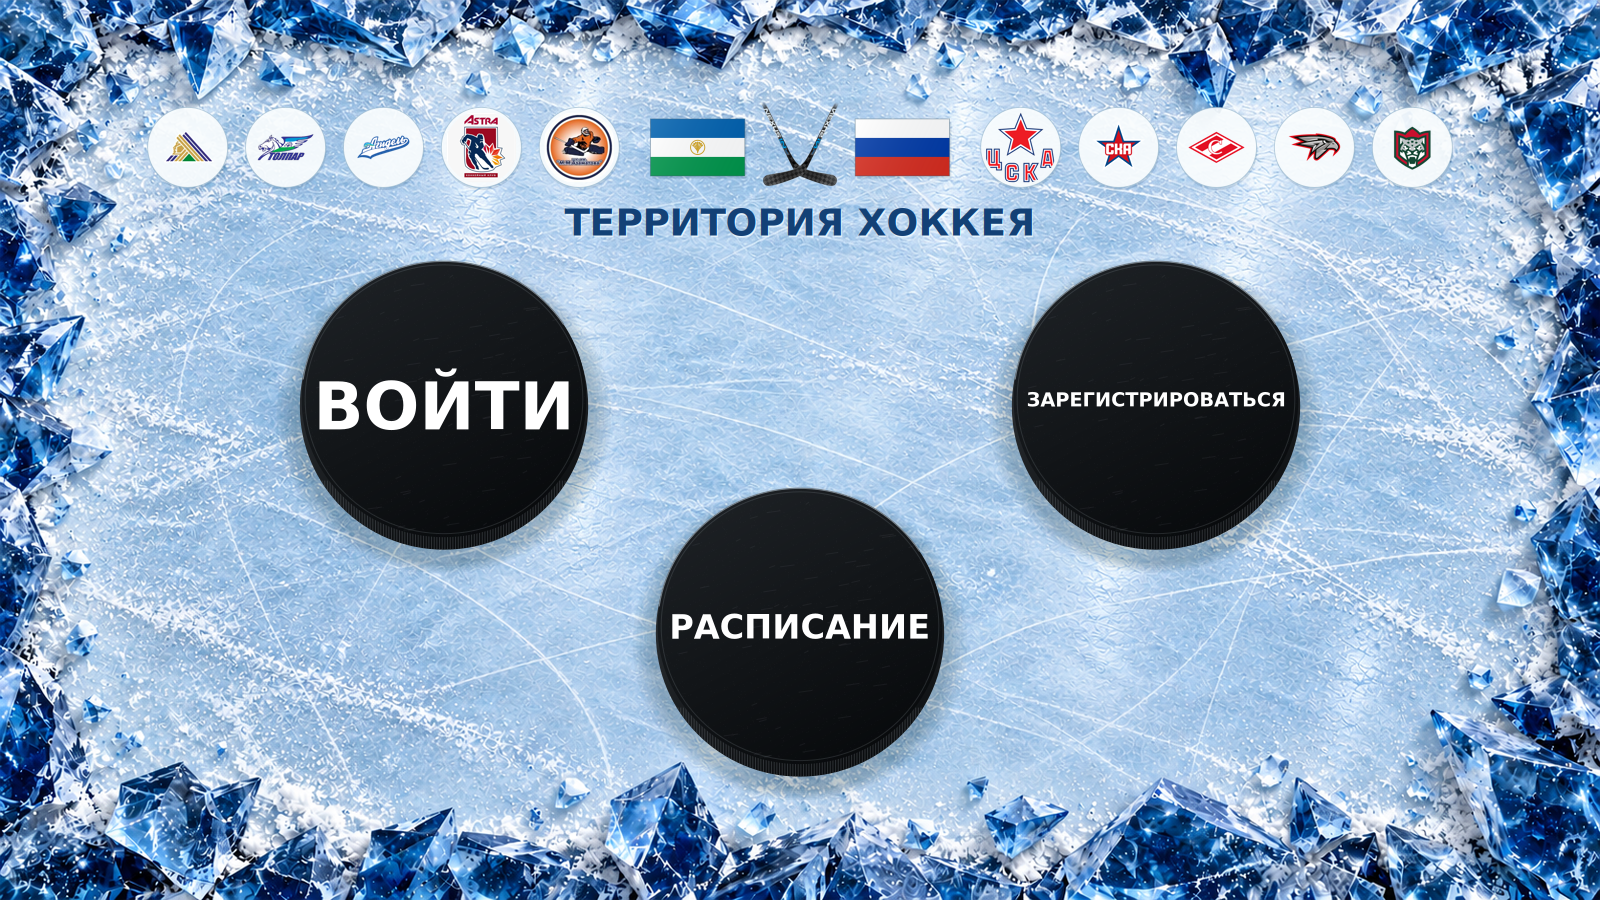
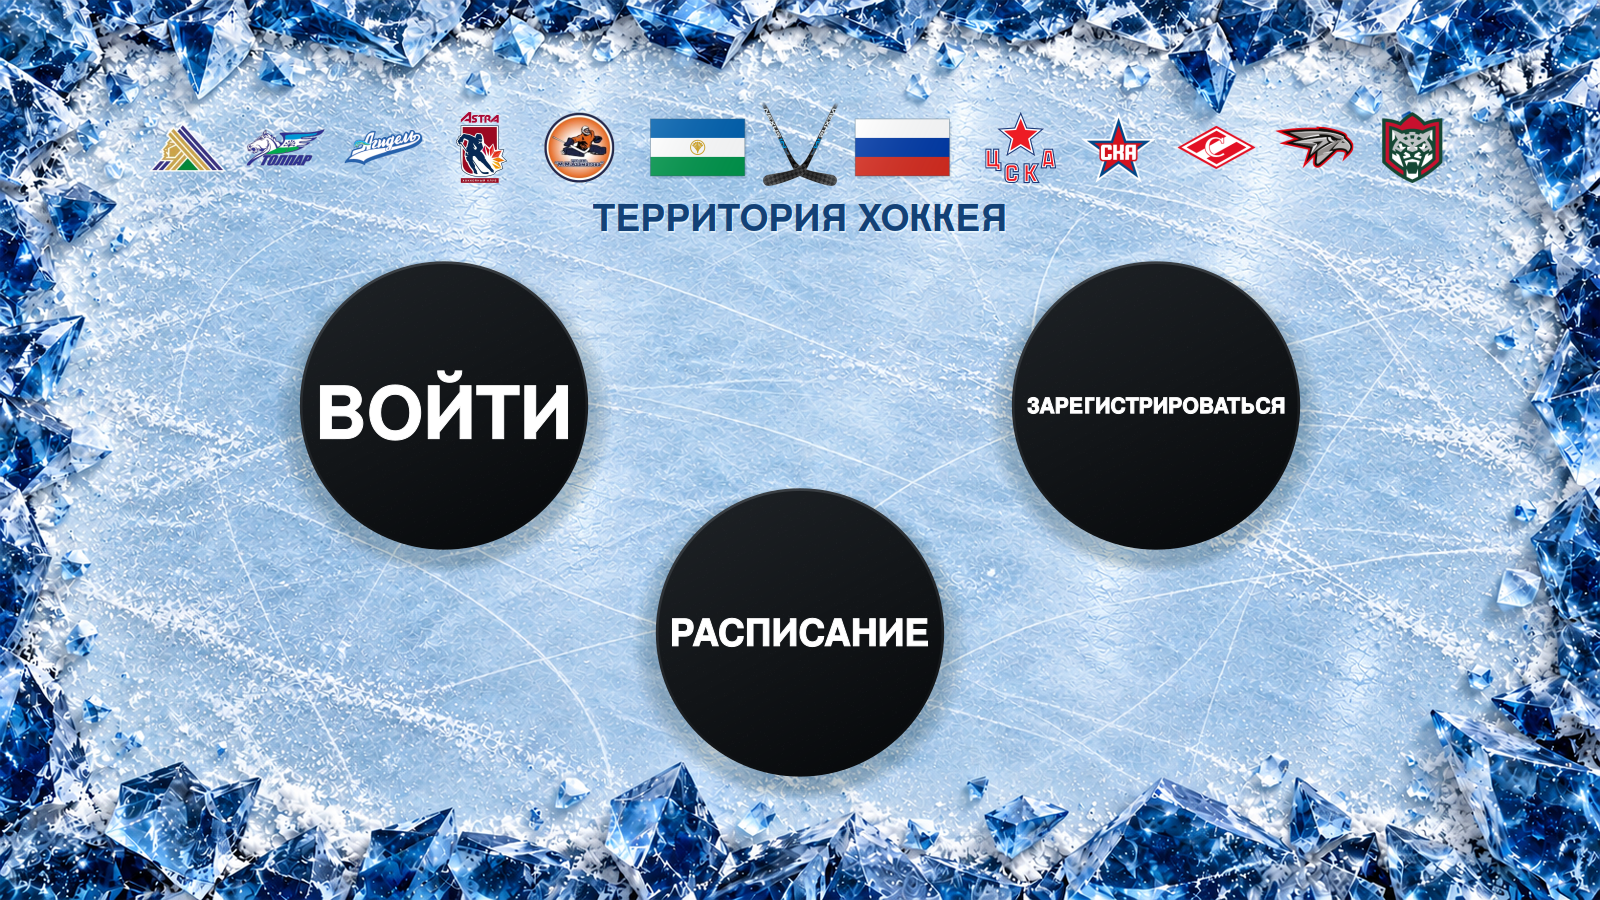
Fix emblem DPI and transparency, round pucks and strengthen menu typography

diff --git a/COURSE_3/EP_TPaD_DB/App_C#/App/ArtworkResources.cs b/COURSE_3/EP_TPaD_DB/App_C#/App/ArtworkResources.cs
@@ -1,4 +1,6 @@
+using System.Drawing.Drawing2D;
 using System.Drawing.Imaging;
+using System.Runtime.InteropServices;
 
 namespace LP_PopovD_App
 {
@@ -14,11 +16,110 @@ namespace LP_PopovD_App
                 .GetManifestResourceStream("LP_PopovD_App.Assets." + name + ".png")
                 ?? throw new FileNotFoundException("Изображение не включено в проект: " + name);
             using Image original = Image.FromStream(stream);
-            image = new Bitmap(original.Width, original.Height, PixelFormat.Format32bppPArgb);
-            using (Graphics g = Graphics.FromImage(image))
-                g.DrawImageUnscaled(original, 0, 0);
+            image = CopyPixels(original);
             images.Add(name, image);
             return image;
+        }
+
+        private static Bitmap CopyPixels(Image original)
+        {
+            Bitmap copy = new(original.Width, original.Height, PixelFormat.Format32bppArgb);
+            copy.SetResolution(96, 96);
+            using Graphics g = Graphics.FromImage(copy);
+            g.PageUnit = GraphicsUnit.Pixel;
+            g.CompositingMode = CompositingMode.SourceCopy;
+            // У исходников DPI от 25 до 600. Копируем именно пиксели, без физического масштаба.
+            g.DrawImage(original, new Rectangle(0, 0, copy.Width, copy.Height),
+                0, 0, original.Width, original.Height, GraphicsUnit.Pixel);
+            return copy;
+        }
+
+        internal static Bitmap GetEmblem(string name)
+        {
+            string key = name + ":emblem";
+            if (images.TryGetValue(key, out Bitmap? emblem))
+                return emblem;
+
+            using Bitmap cutout = CopyPixels(Get(name));
+            int width = cutout.Width, height = cutout.Height;
+            Rectangle full = new(0, 0, width, height);
+            BitmapData data = cutout.LockBits(full, ImageLockMode.ReadWrite, PixelFormat.Format32bppArgb);
+            Rectangle bounds;
+            try
+            {
+                int[] pixels = new int[width * height];
+                for (int y = 0; y < height; y++)
+                    Marshal.Copy(IntPtr.Add(data.Scan0, y * data.Stride), pixels, y * width, width);
+
+                // У этих двух источников непрозрачный фон. Белые детали внутри эмблем сохраняются.
+                if (name is "Astra" or "Azamatov")
+                    RemoveOuterBackground(pixels, width, height);
+
+                int left = width, top = height, right = -1, bottom = -1;
+                for (int y = 0; y < height; y++)
+                    for (int x = 0; x < width; x++)
+                        if ((uint)pixels[y * width + x] >> 24 > 8)
+                        {
+                            left = Math.Min(left, x);
+                            top = Math.Min(top, y);
+                            right = Math.Max(right, x);
+                            bottom = Math.Max(bottom, y);
+                        }
+                if (right < left)
+                    throw new InvalidDataException("Пустая эмблема: " + name);
+                bounds = Rectangle.FromLTRB(left, top, right + 1, bottom + 1);
+                for (int y = 0; y < height; y++)
+                    Marshal.Copy(pixels, y * width, IntPtr.Add(data.Scan0, y * data.Stride), width);
+            }
+            finally
+            {
+                cutout.UnlockBits(data);
+            }
+
+            emblem = cutout.Clone(bounds, PixelFormat.Format32bppPArgb);
+            emblem.SetResolution(96, 96);
+            images.Add(key, emblem);
+            return emblem;
+        }
+
+        private static void RemoveOuterBackground(int[] pixels, int width, int height)
+        {
+            bool[] visited = new bool[pixels.Length];
+            Queue<int> edge = new();
+            void Visit(int index)
+            {
+                if (visited[index])
+                    return;
+                visited[index] = true;
+                uint color = (uint)pixels[index];
+                int r = (int)(color >> 16 & 255), g = (int)(color >> 8 & 255), b = (int)(color & 255);
+                bool white = Math.Min(r, Math.Min(g, b)) >= 238 &&
+                    Math.Max(r, Math.Max(g, b)) - Math.Min(r, Math.Min(g, b)) <= 12;
+                if (color >> 24 <= 8 || white)
+                {
+                    pixels[index] = 0;
+                    edge.Enqueue(index);
+                }
+            }
+
+            for (int x = 0; x < width; x++)
+            {
+                Visit(x);
+                Visit((height - 1) * width + x);
+            }
+            for (int y = 0; y < height; y++)
+            {
+                Visit(y * width);
+                Visit(y * width + width - 1);
+            }
+            while (edge.TryDequeue(out int index))
+            {
+                int x = index % width, y = index / width;
+                if (x > 0) Visit(index - 1);
+                if (x + 1 < width) Visit(index + 1);
+                if (y > 0) Visit(index - width);
+                if (y + 1 < height) Visit(index + width);
+            }
         }
 
         internal static void Dispose()

diff --git a/COURSE_3/EP_TPaD_DB/App_C#/App/EntryDrawing.cs b/COURSE_3/EP_TPaD_DB/App_C#/App/EntryDrawing.cs
@@ -30,8 +30,8 @@ namespace LP_PopovD_App
 
         private static bool InsideFace(float x, float y)
         {
-            float dx = (x - 165) / 159;
-            float dy = (y - 158) / 154;
+            float dx = (x - 165) / 158;
+            float dy = (y - 165) / 158;
             return dx * dx + dy * dy < 1;
         }
 
@@ -42,22 +42,13 @@ namespace LP_PopovD_App
             g.TranslateTransform(bounds.X, bounds.Y);
             g.ScaleTransform(scale, scale);
             g.SmoothingMode = SmoothingMode.AntiAlias;
-            RectangleF body = new(3, 5, 324, 322);
+            RectangleF body = new(3, 3, 324, 324);
             using LinearGradientBrush rim = new(body, Color.FromArgb(64, 69, 74),
                 Color.FromArgb(3, 5, 7), 75f);
             g.FillEllipse(rim, body);
 
-            // Рифлёный резиновый торец под верхней рабочей поверхностью.
-            using Pen groove = new(Color.FromArgb(100, 97, 103, 109), 0.65f);
-            for (int x = 7; x < 325; x += 3)
-            {
-                float normalizedX = (x - 165f) / 162f;
-                float bottom = 166 + 161 * MathF.Sqrt(1 - normalizedX * normalizedX);
-                if (bottom > 250)
-                    g.DrawLine(groove, x, 250, x, bottom - 0.6f);
-            }
-
-            RectangleF face = new(5, 3, 320, 310);
+            // Вид сверху: концентрические окружности, без овального лица и смещённого торца.
+            RectangleF face = new(6, 6, 318, 318);
             using LinearGradientBrush rubber = new(face,
                 highlighted ? Color.FromArgb(44, 48, 53) : Color.FromArgb(31, 35, 39),
                 Color.FromArgb(5, 7, 9), 62f);
@@ -67,32 +58,18 @@ namespace LP_PopovD_App
             for (int i = 0; i < 4800; i++)
             {
                 float x = random.NextSingle() * 330;
-                float y = random.NextSingle() * 320;
+                float y = random.NextSingle() * 330;
                 float dot = 0.25f + random.NextSingle() * 0.5f;
                 if (InsideFace(x, y) && InsideFace(x + dot, y + dot))
                     g.FillEllipse(grain, x, y, dot, dot);
             }
-            using Pen scuff = new(Color.FromArgb(20, 166, 174, 181), 0.45f);
-            for (int i = 0; i < 85; i++)
-            {
-                float x = random.NextSingle() * 330;
-                float y = random.NextSingle() * 310;
-                float end = x + 2 + random.NextSingle() * 13;
-                if (InsideFace(x, y) && InsideFace(end, y - 2))
-                    g.DrawLine(scuff, x, y, end, y - 2);
-            }
-            using Pen bevel = new(highlighted ? Color.FromArgb(193, 211, 224) :
-                Color.FromArgb(115, 126, 135), 1.4f);
-            using Pen inner = new(Color.FromArgb(42, 174, 184, 193), 0.6f);
-            g.DrawArc(bevel, face, 188, 140);
-            g.DrawEllipse(inner, 9, 7, 312, 302);
             if (pressed)
             {
                 using SolidBrush shade = new(Color.FromArgb(38, 0, 0, 0));
                 g.FillEllipse(shade, face);
             }
             // Единая строка занимает почти всю ширину лица шайбы.
-            RinkTypography.Draw(g, text, new RectangleF(10, 3 + (pressed ? 2 : 0), 310, 310),
+            RinkTypography.Draw(g, text, new RectangleF(10, 10 + (pressed ? 2 : 0), 310, 310),
                 Color.White, outline: false);
             g.Restore(state);
         }

diff --git a/COURSE_3/EP_TPaD_DB/App_C#/App/HeaderDrawing.cs b/COURSE_3/EP_TPaD_DB/App_C#/App/HeaderDrawing.cs
@@ -17,7 +17,7 @@ namespace LP_PopovD_App
             DrawFlag(g, new RectangleF(632, 28, 106, 64), true);
             DrawFlag(g, new RectangleF(862, 28, 106, 64), false);
             DrawSticks(g);
-            using Font title = new("Segoe UI", 42, FontStyle.Bold, GraphicsUnit.Pixel);
+            using Font title = new(RinkTypography.FamilyName, 42, FontStyle.Bold, GraphicsUnit.Pixel);
             using StringFormat format = new() { Alignment = StringAlignment.Center, LineAlignment = StringAlignment.Center };
             using SolidBrush halo = new(Color.FromArgb(200, 239, 250, 255));
             using SolidBrush ink = new(RinkDrawing.Blue);
@@ -64,19 +64,8 @@ namespace LP_PopovD_App
 
         private static void DrawClub(Graphics g, string name, float centerX)
         {
-            RectangleF plate = new(centerX - 45, 15, 90, 90);
-            using SolidBrush shadow = new(Color.FromArgb(28, 15, 51, 77));
-            using SolidBrush frost = new(Color.FromArgb(236, 250, 253, 255));
-            using Pen border = new(Color.FromArgb(150, 148, 181, 202), 0.8f);
-            g.FillEllipse(shadow, plate.X + 1, plate.Y + 3, plate.Width, plate.Height);
-            g.FillEllipse(frost, plate);
-            g.DrawEllipse(border, plate);
-            GraphicsState state = g.Save();
-            using GraphicsPath clip = new();
-            clip.AddEllipse(plate.X + 4, plate.Y + 4, plate.Width - 8, plate.Height - 8);
-            g.SetClip(clip, CombineMode.Intersect);
-            DrawImageFit(g, ArtworkResources.Get(name), new RectangleF(centerX - 39, 21, 78, 78));
-            g.Restore(state);
+            // Только сама эмблема: без подложки, круглой маски и пустых полей источника.
+            DrawImageFit(g, ArtworkResources.GetEmblem(name), new RectangleF(centerX - 44, 20, 88, 80));
         }
 
         private static void DrawSticks(Graphics g)
@@ -96,8 +85,9 @@ namespace LP_PopovD_App
         {
             float scale = Math.Min(bounds.Width / image.Width, bounds.Height / image.Height);
             float width = image.Width * scale, height = image.Height * scale;
-            g.DrawImage(image, bounds.X + (bounds.Width - width) / 2,
+            RectangleF destination = new(bounds.X + (bounds.Width - width) / 2,
                 bounds.Y + (bounds.Height - height) / 2, width, height);
+            g.DrawImage(image, destination, new RectangleF(0, 0, image.Width, image.Height), GraphicsUnit.Pixel);
         }
     }
 }

diff --git a/COURSE_3/EP_TPaD_DB/App_C#/App/RinkTypography.cs b/COURSE_3/EP_TPaD_DB/App_C#/App/RinkTypography.cs
@@ -4,11 +4,13 @@ namespace LP_PopovD_App
 {
     internal static class RinkTypography
     {
+        internal const string FamilyName = "Arial";
+
         // Размер рассчитывается по реальным контурам букв, а не по фиксированному шрифту.
         internal static void Draw(Graphics g, string text, RectangleF circle, Color color, bool outline = true)
         {
             string[] lines = text.Replace("\r", "").Split('\n');
-            using FontFamily family = new("Segoe UI");
+            using FontFamily family = new(FamilyName);
             using StringFormat format = (StringFormat)StringFormat.GenericTypographic.Clone();
             format.FormatFlags |= StringFormatFlags.NoWrap;
             const float em = 100;
@@ -59,6 +61,9 @@ namespace LP_PopovD_App
                     g.DrawPath(halo, combined);
                 }
                 using SolidBrush ink = new(color);
+                // Небольшое утолщение с угловатыми стыками, без изменения пропорций букв.
+                using Pen weight = new(color, Math.Max(0.25f, scale * 0.8f)) { LineJoin = LineJoin.Miter };
+                g.DrawPath(weight, combined);
                 g.FillPath(ink, combined);
             }
             finally

diff --git a/COURSE_3/EP_TPaD_DB/App_C#/App/PuckButton.cs b/COURSE_3/EP_TPaD_DB/App_C#/App/PuckButton.cs
@@ -9,9 +9,12 @@ namespace LP_PopovD_App
             ForeColor = Color.White;
         }
 
+        // Фокус обозначается оттенком резины, без стандартной пунктирной рамки Windows.
+        protected override bool ShowFocusCues => false;
+
         protected override void DrawButton(Graphics g, bool hovered, bool pressed, bool focused)
         {
-            EntryDrawing.DrawPuck(g, ClientRectangle, Text, hovered || focused, pressed);
+            EntryDrawing.DrawPuck(g, ClientRectangle, Text, hovered || Focused, pressed);
         }
     }
 }

diff --git a/COURSE_3/EP_TPaD_DB/App_C#/README.md b/COURSE_3/EP_TPaD_DB/App_C#/README.md
@@ -9,7 +9,9 @@ Windows Forms, C# / .NET 10. Все изменения приложения со
 
 Слева — «ВОЙТИ», справа — «ЗАРЕГИСТРИРОВАТЬСЯ», снизу по центру — «РАСПИСАНИЕ».
 Белые подписи максимально вписаны в ширину чёрных шайб; длинная подпись остаётся
-в одну строку. У шайб есть фактура резины, потёртости, рифлёный торец и тени.
+в одну строку. Шайбы круглые, с концентрической рабочей поверхностью, фактурой резины
+и мягкими тенями. Светлые дуги, пунктирные рамки и декоративные царапины убраны.
+Надписи используют чуть более угловатый и плотный Arial Bold.
 
 Над заголовком расположена одна строка с общей осью по центрам эмблем и флагов.
 Порядок слева направо:
@@ -18,7 +20,11 @@ Windows Forms, C# / .NET 10. Все изменения приложения со
 флаг Башкортостана · клюшки · флаг России · ЦСКА · СКА · Спартак · Авангард · Ак Барс.**
 
 Эмблемы загружены из источников клубов и хоккейных организаций, не перерисованы.
-Цвета и пропорции сохранены. Светлые круглые подложки улучшают читаемость на льду.
+Цвета и пропорции сохранены. Эмблемы показаны без подложек и круглых масок;
+прозрачные поля обрезаются, сами изображения центрируются на общей горизонтали.
+У «Астры» и школы Азаматова удаляется только внешний светлый фон,
+связанный с краями исходного изображения; белые детали внутри эмблем сохраняются.
+Разный DPI исходников не влияет на размер: загрузка и отрисовка используют пиксели.
 Вместо прежней рисованной схемы использована фотография настоящей клюшки
 с прозрачным фоном: две зеркальные копии пересекаются нижними перьями.
 Изображения встроены в приложение, поэтому интернет при запуске не требуется.
@@ -50,7 +56,7 @@ PNG-превью сохраняют пиксели отрисованной сц
 не означает, что каждая деталь фона и каждая эмблема имеют нативное разрешение 16К.
 
 Изображения получены общей отрисовкой приложения. Это экспорт сцены,
-а не снимок окна Windows. В Linux используется замена Segoe UI;
+а не снимок окна Windows. В Linux используется замена Arial;
 в Windows форма букв может немного отличаться.
 
 ## Запуск в Visual Studio
@@ -78,7 +84,8 @@ dotnet run -c Release -- --export-menu ..\Menu_16K.png 15360
 ## Проверка
 
 Release-сборка для Windows проверена с `EnableWindowsTargeting=true`:
-**0 ошибок, 0 предупреждений**. Общая отрисовка выполнена и просмотрена
-в 1600 × 900 и при минимальном размере окна 960 × 600.
-Проверены файлы PNG 3840 × 2160 и 15360 × 8640, загрузка всех встроенных изображений.
+**0 ошибок, 0 предупреждений**. Общая отрисовка проверена
+в 960 × 600, 1600 × 900 и 1920 × 1080.
+Проверены загрузка всех 12 изображений, сохранение исходных пикселей при разном DPI,
+границы десяти эмблем, прозрачность внешних фонов и сохранение белых деталей логотипов.
 Окно WinForms в Windows в этой среде не запускалось.
